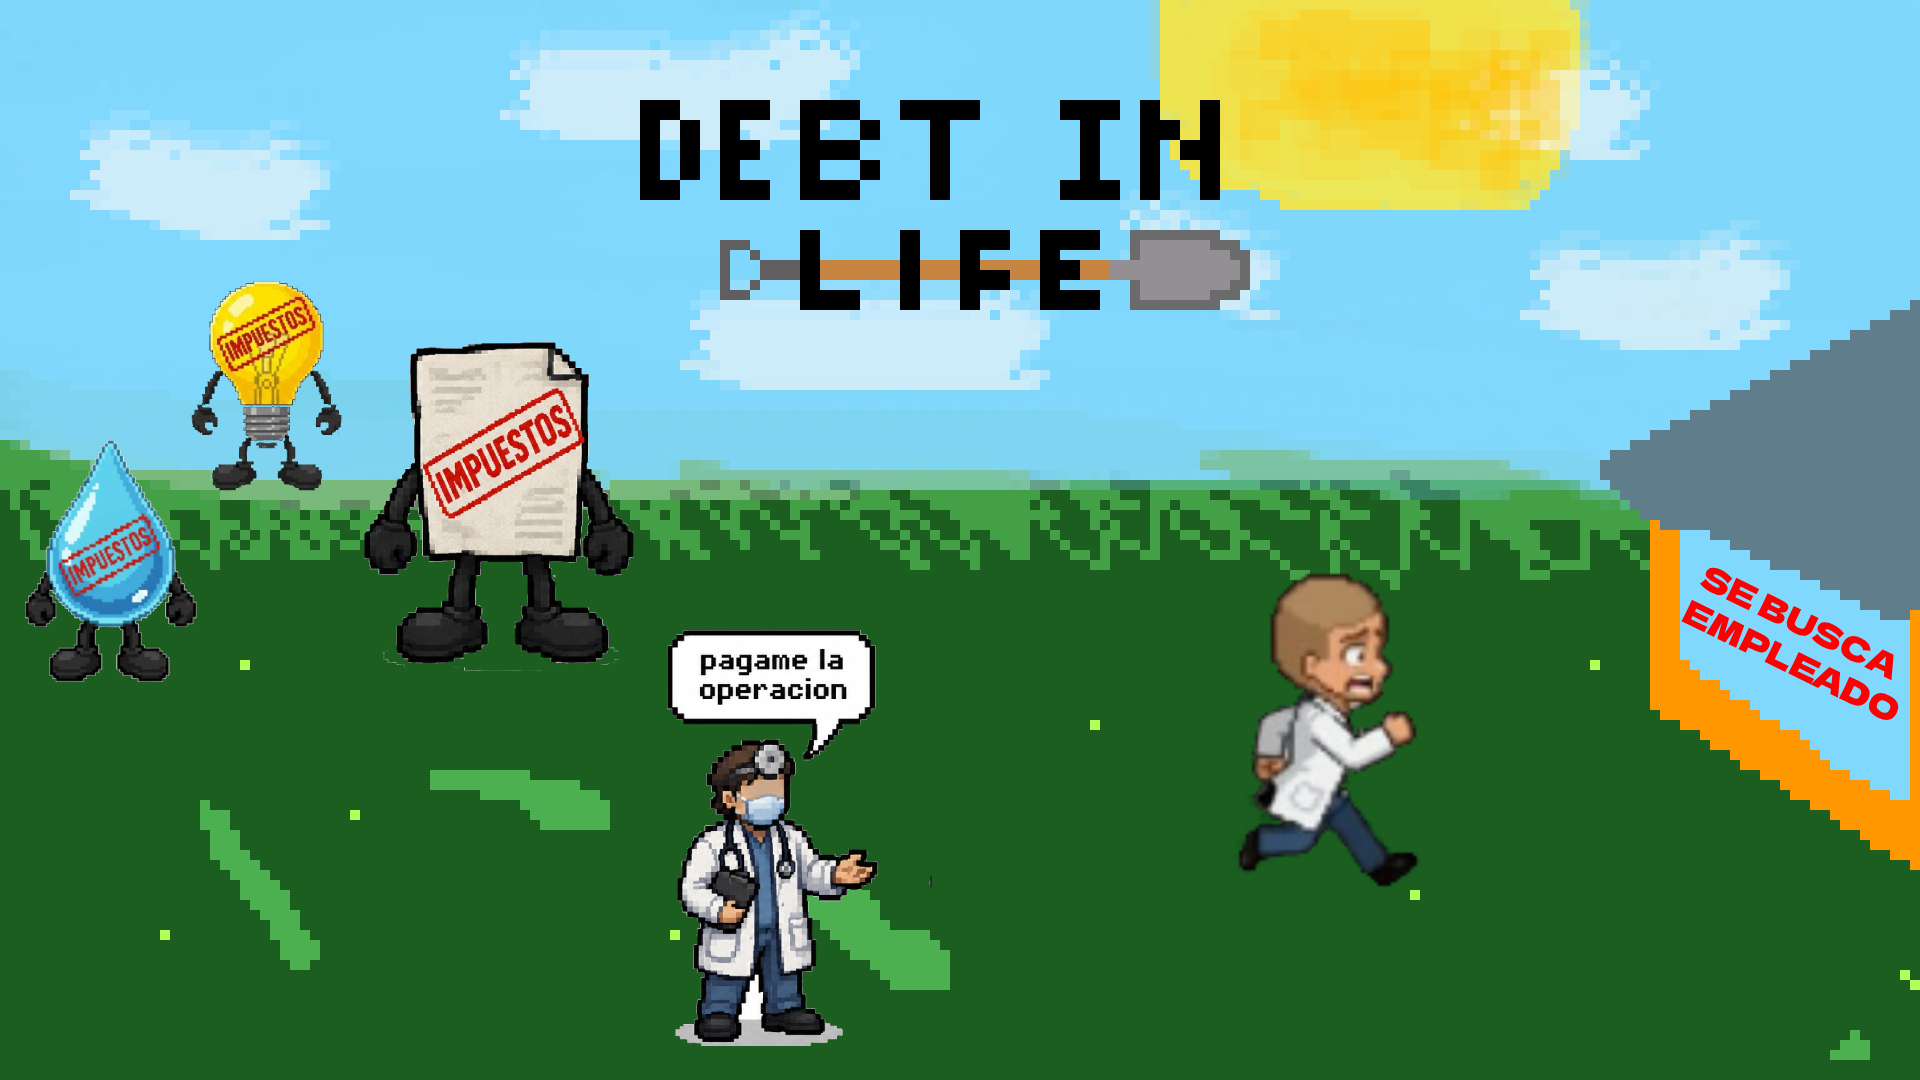
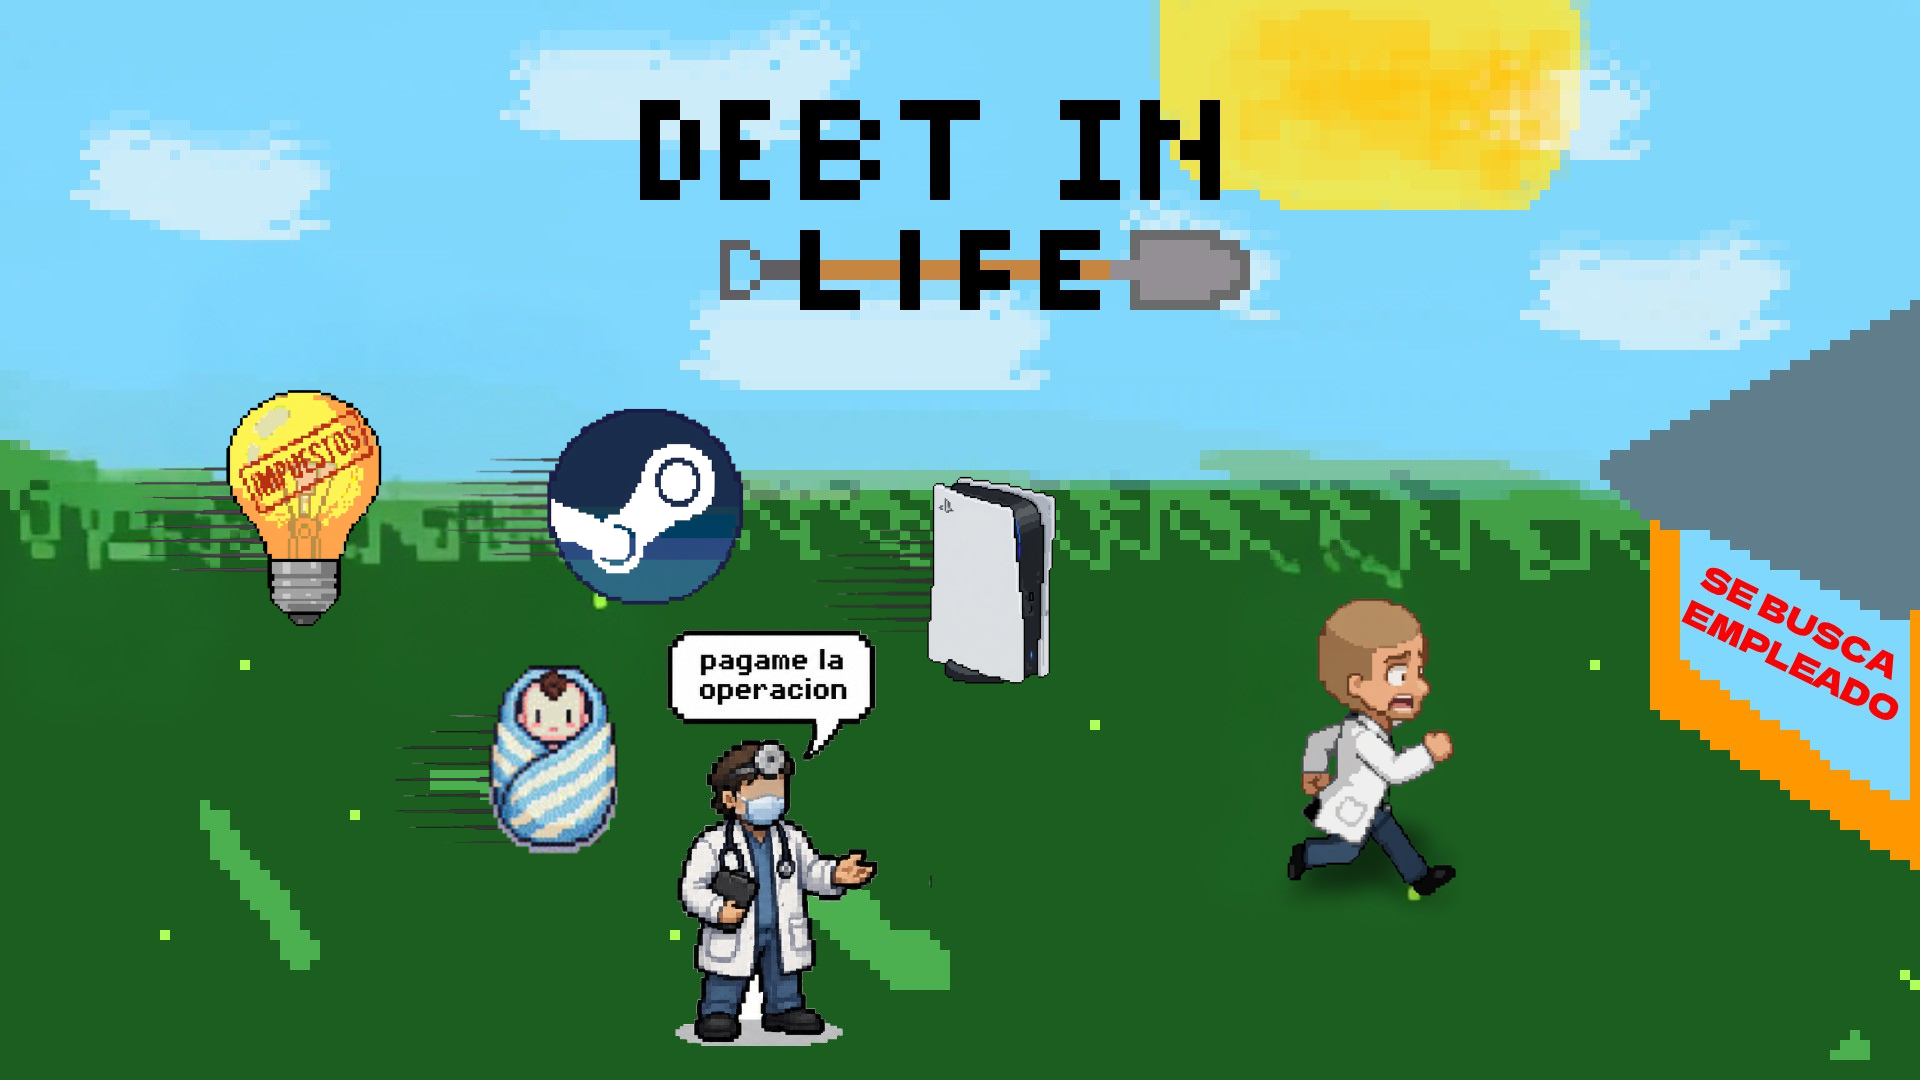
Agregado de sprites a enemigoLetal. Cambio de fondo de menu. Arreglado de minibug. Cambios en 2 sprites

diff --git a/src/vista/VistaJuego.java b/src/vista/VistaJuego.java
@@ -348,11 +348,50 @@ public class VistaJuego extends JFrame { // Clase que representa la ventana del 
                     int ey = (int) ((en.posYVisual - camY) * tamaño) + desplazamientoY;
 
                     if (en instanceof EnemigoLetal){
-                        //dibujo enemigo letal (por ahora es negro)
-                    g2d.setColor(Color.BLACK);
-                    g2d.fillRect(ex + 4, ey + 4, tamaño - 8, tamaño - 8);
-                    g2d.setColor(Color.RED);
-                    g2d.drawString("V", ex + 11, ey + 20);
+                    String dirMuerte = "abajo";
+                        double difX = en.x - en.posXVisual;
+                        double difY = en.y - en.posYVisual;
+                
+                        if (Math.abs(difX) > 0.01 || Math.abs(difY) > 0.01) {
+                            
+                            if (Math.abs(difX) > Math.abs(difY)) {
+                                dirMuerte = difX > 0 ? "derecha" : "izquierda";
+                            } else {
+                                dirMuerte = difY > 0 ? "abajo" : "arriba";
+                            }
+                        } else if (jugador != null) {
+                            double distJugadorX = jugador.getX() - en.x;
+                            double distJugadorY = jugador.getY() - en.y;
+                            if (Math.abs(distJugadorX) > Math.abs(distJugadorY)) {
+                                dirMuerte = distJugadorX > 0 ? "derecha" : "izquierda";
+                            } else {
+                                dirMuerte = distJugadorY > 0 ? "abajo" : "arriba";
+                            }
+                        }
+                
+                        Image spriteLetal = GestorSprites.getInstance().obtenerSpriteEnemigoLetal(dirMuerte);
+                
+                        if (spriteLetal != null) {
+                            int anchoOriginal = spriteLetal.getWidth(null);
+                         int altoOriginal  = spriteLetal.getHeight(null);
+
+                         double margen = 1.3;
+                         double escala = (double) tamaño / Math.max(anchoOriginal, altoOriginal) * margen;
+
+                         int anchoDibujo = (int) (anchoOriginal * escala);
+                         int altoDibujo  = (int) (altoOriginal  * escala);
+
+                         int dibujoX = ex + (tamaño - anchoDibujo) / 2;
+                         int dibujoY = ey + (tamaño - altoDibujo);
+
+                         g2d.drawImage(spriteLetal, dibujoX, dibujoY, anchoDibujo, altoDibujo, null);
+
+                         } else {
+                         g2d.setColor(Color.BLACK);
+                         g2d.fillRect(ex + 4, ey + 4, tamaño - 8, tamaño - 8);
+                         g2d.setColor(Color.RED);
+                         g2d.drawString("V", ex + 11, ey + 20);
+                        }
 
                     } else {
                     // Dibujamos el sprite real del enemigo

diff --git a/src/vista/GestorSprites.java b/src/vista/GestorSprites.java
@@ -18,7 +18,7 @@ public class GestorSprites {
     // Indices de Direccion: 0=Abajo, 1=Arriba, 2=Derecha, 3=Izquierda
     private BufferedImage[][] cacheEstaticos;
     private SpriteSheet[][] cacheAnimados;
-
+    private SpriteSheet[] cacheLetal = new SpriteSheet[4];
     private GestorSprites() {
         cacheEstaticos = new BufferedImage[3][4];
         cacheAnimados = new SpriteSheet[3][4];
@@ -118,5 +118,43 @@ public class GestorSprites {
             cacheAnimados[tipoIndex][dirIndex] = new SpriteSheet(ruta, columnas, filas);
         }
         return cacheAnimados[tipoIndex][dirIndex];
+    }
+
+    public Image obtenerSpriteEnemigoLetal(String direccion) {
+        int dirIndex = 0;
+        int columnas = 11;
+        int filas = 2;
+
+        switch(direccion) {
+            case "arriba": dirIndex = 1; break;
+            case "derecha": 
+            dirIndex = 2;
+            columnas = 13; 
+            filas = 2; 
+            break;
+            case "izquierda": 
+                dirIndex = 3; 
+                columnas = 5; 
+                filas = 5; 
+                break;
+            case "abajo": default: dirIndex = 0; break;
+        }
+
+        if (cacheLetal[dirIndex] == null) {
+            String ruta = "images/sprites/enemigoLetal/" + direccion + "muerte.png"; 
+            cacheLetal[dirIndex] = new SpriteSheet(ruta, columnas, filas);
+        }
+
+        SpriteSheet sheet = cacheLetal[dirIndex];
+        if (sheet == null) return null;
+
+        int cols = sheet.getColumnas();
+        int fils = sheet.getFilas();
+        int totalFrames = cols * fils;
+        int frameCalculado = (int) ((System.currentTimeMillis() / 100) % totalFrames);
+        int fila = frameCalculado / cols;
+        int columna = frameCalculado % cols;
+
+        return sheet.obtenerFrame(fila, columna);
     }
 }

diff --git a/src/modelo/map/Mapa.java b/src/modelo/map/Mapa.java
@@ -44,7 +44,7 @@ public class Mapa {
         }
         for (int y = 0; y < alto; y++) {
             celdas[y][0].contenido = new Pared(0);
-            celdas[y][ancho - 1].contenido = new Pared();
+            celdas[y][ancho - 1].contenido = new Pared(0);
         }
 
         // esto hace que las paredes o enemigos no ocupen más del 30% del mapa
